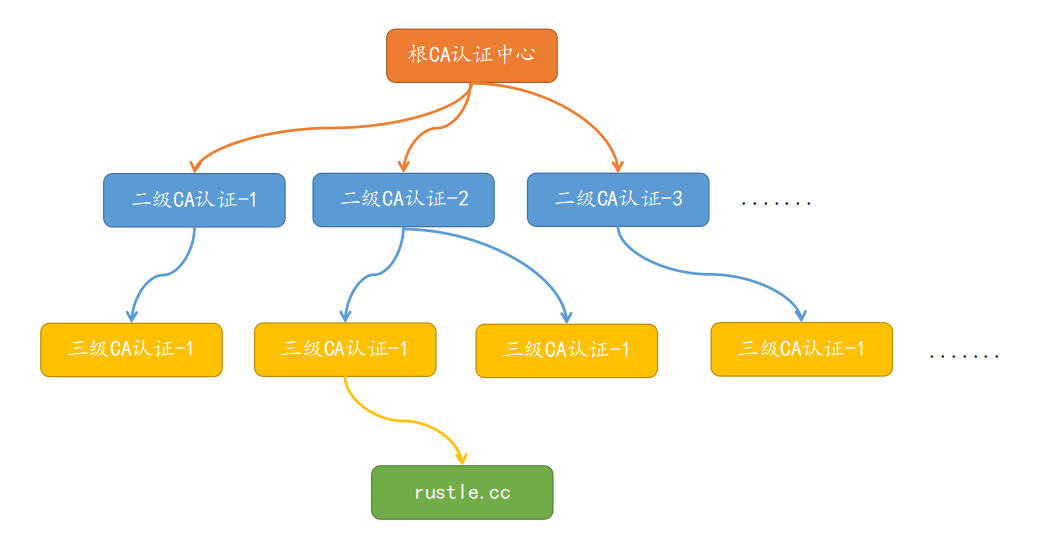
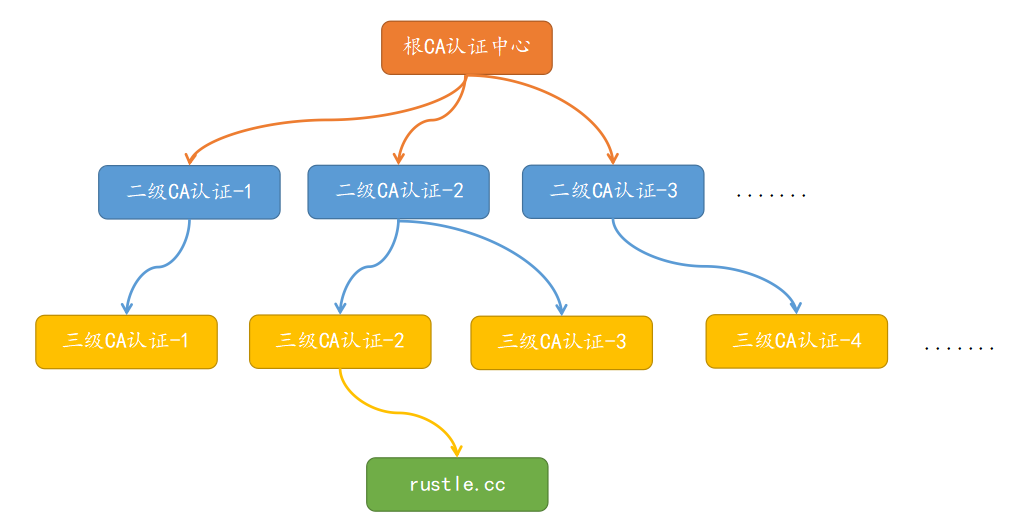
[modify] correct wrong text and pic

diff --git a/_posts/2022-06-04-https.md b/_posts/2022-06-04-https.md
@@ -81,7 +81,7 @@ CA认证中心是负责签发，管理，认证数字证书的机构，是基于
 
 至此了解了加密算法，摘要，数字签名，证书以及CA的概念，那么回到第三节《数字签名》部分的问题，Alice应该怎么确认自己接收到的证书确实是Bob发来的？当时说了是使用签名，但是第四节《什么是证书》又说签名本身只能保证文件是正确的，并不能保证确实是Bob发的，也可能是Susan发的，只不过用的是Bob的名字而已。要解决这个问题，还得回到证书本身的构成，我们反复说证书是由公钥，信息以及签名构成，其中信息中有一些加密算法和摘要算法就是为了验证证书有效性而设计的。
 
-为了更清晰的解释如何验证证书的有效性，我们假设Bob发来的证书总共由3级，即根CA证书，中间CA证书以及Bob的证书。Alice首先用浏览器内置的中间证书的公钥去解密签名，得到Bob证书公钥和信息的哈希值A1，再独单用信息中指定的摘要算法去计算Bob证书的公钥和信息，得到哈希值A2，对比A1和A2是否相等，如果相等则说明Bob的证书确实是由其中间CA证书颁发的；然后再验证中间CA证书的有效性，同样用中间CA的上一级，也就是根CA证书的私钥去解密中间证书的签名，会得到中间CA证书的公钥和信息的哈希值B1，再用中间证书中指定的摘要算法，重新单独计算公钥和信息的摘要，得到哈希值B2，比较B1和B2是否相等，如果相等，则证明中间CA证书是可信的。
+为了更清晰的解释如何验证证书的有效性，我们假设Bob发来的证书总共由3级，即根CA证书，中间CA证书以及Bob的证书。Alice首先用浏览器内置的中间证书的公钥去解密签名，得到Bob证书公钥和信息的哈希值A1，再独单用信息中指定的摘要算法去计算Bob证书的公钥和信息，得到哈希值A2，对比A1和A2是否相等，如果相等则说明Bob的证书确实是由其中间CA证书颁发的；然后再验证中间CA证书的有效性，同样用中间CA的上一级，也就是根CA证书的公钥去解密中间证书的签名，会得到中间CA证书的公钥和信息的哈希值B1，再用中间证书中指定的摘要算法，重新单独计算公钥和信息的摘要，得到哈希值B2，比较B1和B2是否相等，如果相等，则证明中间CA证书是可信的。
 
 最后到了根CA证书，我们之前说过，信任链的起始位置就是CA根证书绝对可信，所以这时如果Bob证书的根CA证书和浏览器内置的CA证书一致，则完全可以说Alice收到的Bob给过来的证书，确实是Bob发送的。
 
